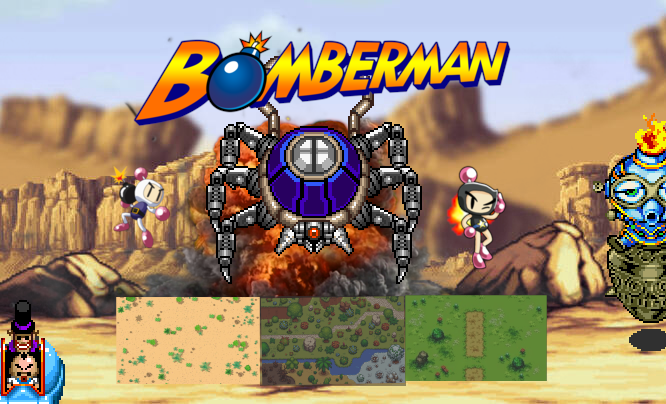
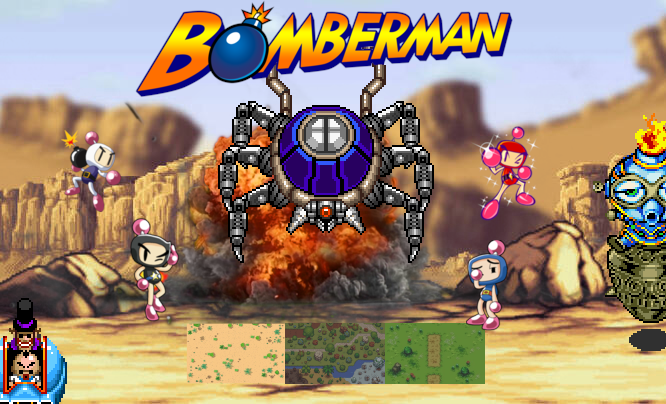
Bomberman guztiak aukeratu

diff --git a/BombermanProiektua/src/Bista/IkusiBeharrekoa.java b/BombermanProiektua/src/Bista/IkusiBeharrekoa.java
@@ -141,14 +141,46 @@ public class IkusiBeharrekoa extends JFrame implements Observer {
             int key = e.getKeyCode();
             if (unekoPantaila.equals("Hasiera")) {
                 switch (key) {
-                    case KeyEvent.VK_LEFT:
-                        hasierakoPantaila.irudiaAldatu("/Bista/irudiak/inicioWhite.png");
+                case KeyEvent.VK_LEFT:
+                    switch(j) {
+                    case "white":
+                    	hasierakoPantaila.irudiaAldatu("/Bista/irudiak/inicioWhite.png");
                         j = "white";
                         break;
-                    case KeyEvent.VK_RIGHT:
-                        hasierakoPantaila.irudiaAldatu("/Bista/irudiak/inicioBlack.png");
+                    case "black":
+                    	hasierakoPantaila.irudiaAldatu("/Bista/irudiak/inicioWhite.png");
+                        j = "white";
+                    	break;
+                    case "blue":
+                    	hasierakoPantaila.irudiaAldatu("/Bista/irudiak/inicioBlack.png");
+                        j = "black";
+                    	break;
+                    case "red":
+                    	hasierakoPantaila.irudiaAldatu("/Bista/irudiak/inicioBlue.png");
+                        j = "blue";
+                    	break;
+                    }
+                    break;
+                case KeyEvent.VK_RIGHT:
+                	switch(j) {
+                    case "white":
+                    	hasierakoPantaila.irudiaAldatu("/Bista/irudiak/inicioBlack.png");
                         j = "black";
                         break;
+                    case "black":
+                    	hasierakoPantaila.irudiaAldatu("/Bista/irudiak/inicioBlue.png");
+                        j = "blue";
+                    	break;
+                    case "blue":
+                    	hasierakoPantaila.irudiaAldatu("/Bista/irudiak/inicioRed.png");
+                        j = "red";
+                    	break;
+                    case "red":
+                    	hasierakoPantaila.irudiaAldatu("/Bista/irudiak/inicioRed.png");
+                        j = "red";
+                    	break;
+                    }
+                    break;
                     case KeyEvent.VK_SPACE:
                     	unekoPantaila = "Mapa";
                     	unekoMapa = "Classic";
